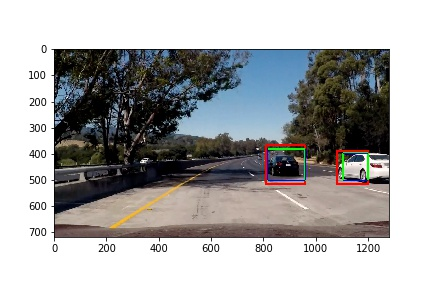
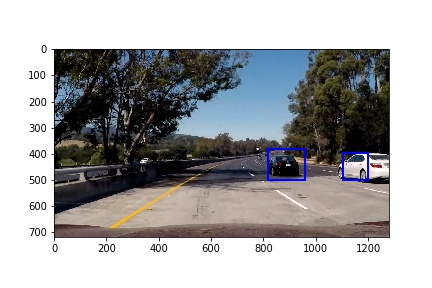
Improved writeup

Changed region(s): [[0.7523, 0.5, 0.8727, 0.6562], [0.6019, 0.4688, 0.7222, 0.6562]]

diff --git a/writeup.md b/writeup.md
@@ -35,6 +35,9 @@ The goals / steps of this project are the following:
 [image17]: ./output_images/Labelled_array.jpg
 [image18]: ./output_images/Result.jpg
 
+[image19]: ./output_images/heatmap_frames.jpg
+[image20]: ./output_images/combined_frames.jpg
+
 [video1]: ./output_images/video_out.mp4
 
 ## [Rubric](https://review.udacity.com/#!/rubrics/513/view) Points
@@ -71,10 +74,7 @@ Here are examples of the `vehicle` and `non-vehicle` classes with their correspo
 
 
 #### Spatial and colour features
-In addition to the HOG features, a histogram of colours was 
-
-XXX colour hist image
-XXX spatial hist
+In addition to the HOG features, a histogram of colours and binned spatial features were added to the feature array.
 
 ####  Classifier training
 The steps below for data preprocessing and classifier training can be seen in cells 5-6 in `classifier.ipynb`.
@@ -108,7 +108,7 @@ The sliding window search was originally implemented in the function `slide_wind
 #### Heatmap
 A heatmap of the positive windows is created by looping through the windows and adding an amount of "heat" (defaulted to 1) to an array of zeros (see `add_heat` on line 299-312 in `utils.py`). In addition extra heat (see `add_extra_heat` on line 305) is added to boxes which overlap other boxes (this helps remove false positives and also helps get the full vehicle when thresholding rather than just the intersection of the positive windows).
 
-The heatmap is *thresholded*, meaning that values below a certain threshold are discarded. This helps remove false positives. The threshold was chosen as XXX, this was done through experimenting with a variety of values (running against the whole video - see below).
+The heatmap is *thresholded*, meaning that values below a certain threshold are discarded. This helps remove false positives. The threshold was chosen as 4, this was done through experimenting with a variety of values (running against the whole video - see below).
 
 Next `scipy.ndimage.measurements.label()` was used to label the heatmaps, this applies a different label to each non-zero area of the thresholded heatmap.
 
@@ -139,32 +139,27 @@ Here are some examples of the performace of the pipeline on the test images:
 #### Final video
 Here's a [link to my video result](./output_images/video_out.mp4)
 
+#### Heatmap
+The heatmap for each individual frame is calculated as for images above, however there is one extra step before applying the threshold to the heatmap: the pre-threshold heatmap is made as the average heatmap over the previous 8 frames, this helps to reduce false positives as we assume an actual car doesn't move much between frames. Therefore if there is a window in just one of the last 8 frames it is likely to be a one off false positive, and the averaging before thresholding will remove it from the final heatmap.
 
-#### 2. Describe how (and identify where in your code) you implemented some kind of filter for false positives and some method for combining overlapping bounding boxes.
+Note that an average is used rather than a sum so that the same threshold can be used for images and clips, and the first few clips of a frame still work.
 
+Here is an example over just 4 frames:
 
-Demonstrate a series of images with heatmaps where the adding and averaging removes a false positive.
+![alt text][image19]
 
-### Here are six frames and their corresponding heatmaps:
+You can see from the images above that there are a couple of false positives however the true positives are much stronger on the heatmap. Averaging and then thresholding the above 4 heatmaps gives the following heatmap and bounding boxes with the false positives removed:
 
-![alt text][image5]
-
-
-### Here is the output of `scipy.ndimage.measurements.label()` on the integrated heatmap from all six frames:
-![alt text][image6]
-
-### Here the resulting bounding boxes are drawn onto the last frame in the series:
-![alt text][image7]
-
+![alt text][image20]
 
 ---
 
 ### Discussion
 
-#### 1. Briefly discuss any problems / issues you faced in your implementation of this project.  Where will your pipeline likely fail?  What could you do to make it more robust?
+While working on this project I had particular issues identifying the white car when it was either far away or very close (in between the identification was very successful). I mostly fixed these issues by choosing appropriate window sizes and 
 
-White car
-Threshold selection
-SVM accuracy (negative mining?)...
-Weighted average over previous frames for heatmap?
+Another issue was the slow pipeline time, which made it hard to test. One thing which helped was implementing the variable y start-stop based on window size, so I didn't waste time searching the wrong bit of the image. This gave a speed increase of about 50%. A future improvement could be to use opencv hog as this is quicker.
 
+The threshold selection was a challenge, but I was able to test multiple different thresholds at a time by colouring the bounding boxes differently according to the threshold value they were based on. This sped up development time considerably.
+
+I was pleased with the SVM accuracy of >99% however more training data, or paramter tweaking, could lead to an even higher accuracy which could decrease the number of false positives.
